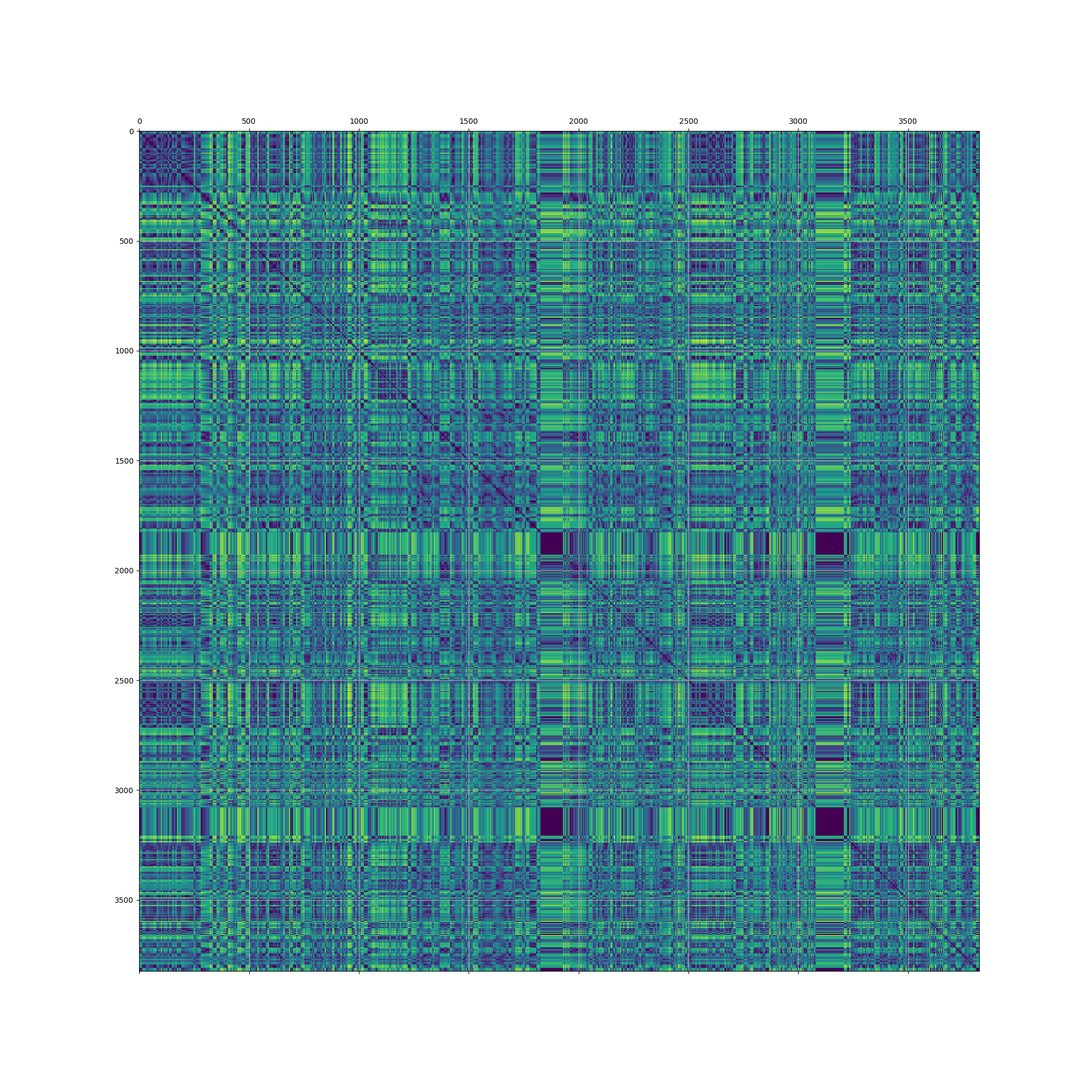
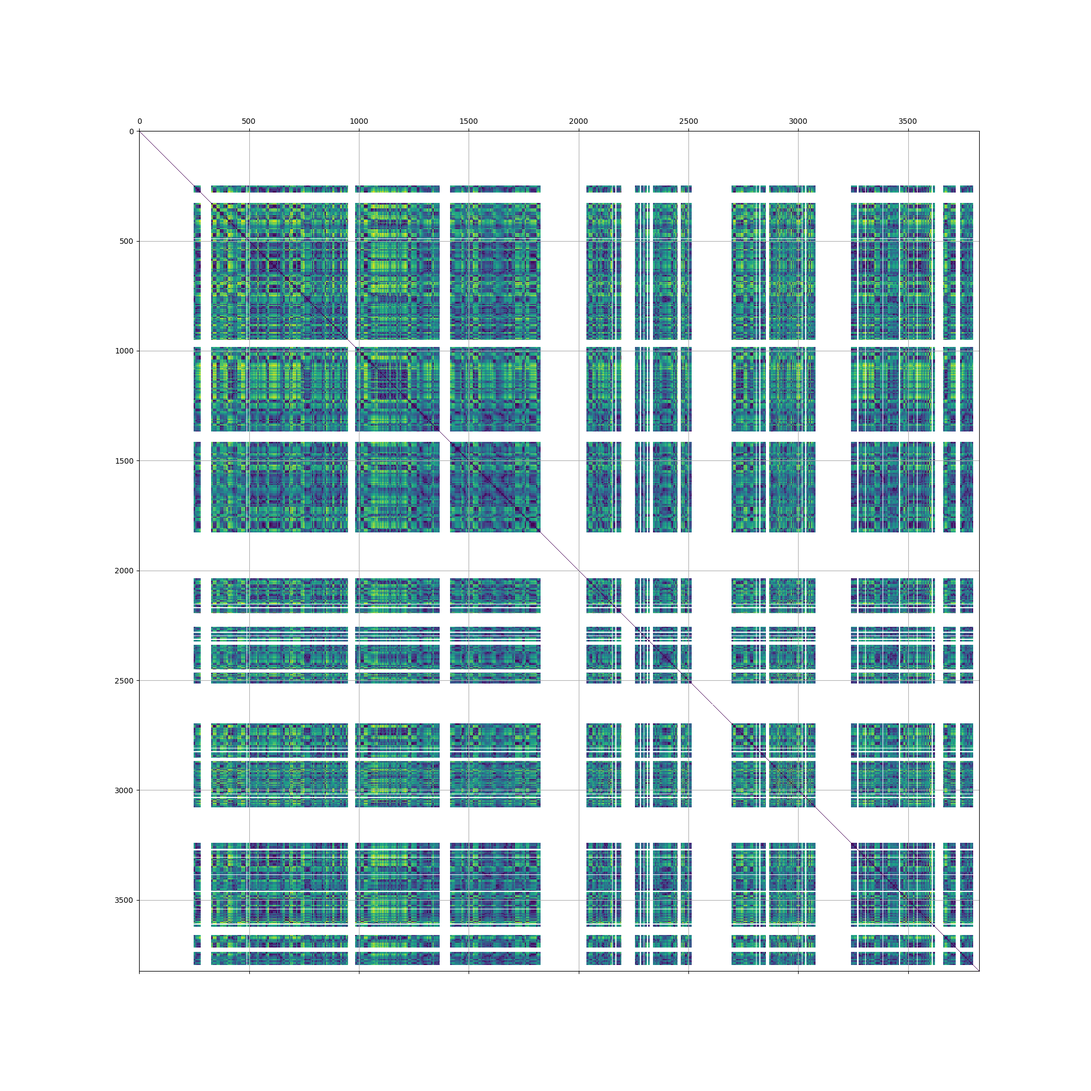
changed 0 to silence (nan)

diff --git a/data/plot_ssm.py b/data/plot_ssm.py
@@ -9,12 +9,14 @@ METRIC = 'euclidean'
 f = np.genfromtxt('F.txt')
 
 min_key_nr = np.min(f[np.nonzero(f)])
+f[f==0] = np.nan
 fn = np.maximum(f - min_key_nr, 0) % 12
+
 ds = [squareform(pdist(fn[:,x], metric=METRIC)) for x in 
       product(range(4), range(4))]
 for d in ds:
-    d -= np.min(d)
-    d /= (np.max(d) - np.min(d))
+    d -= np.nanmin(d)
+    d /= (np.nanmax(d) - np.nanmin(d))
 
 for x in product(range(4), range(4)):
     fig, ax = plt.subplots(figsize=(20,20))
